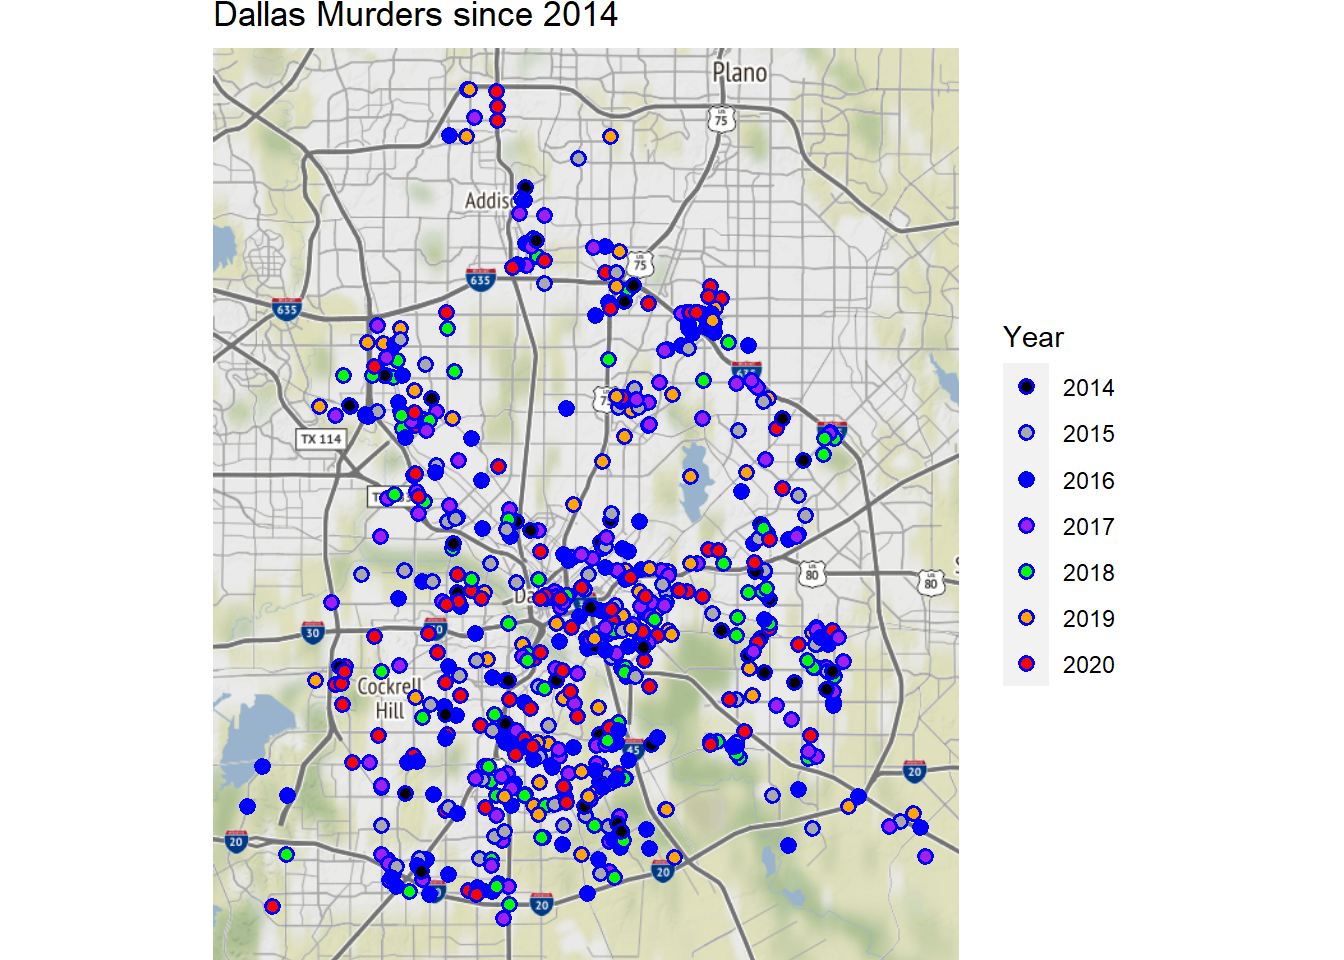
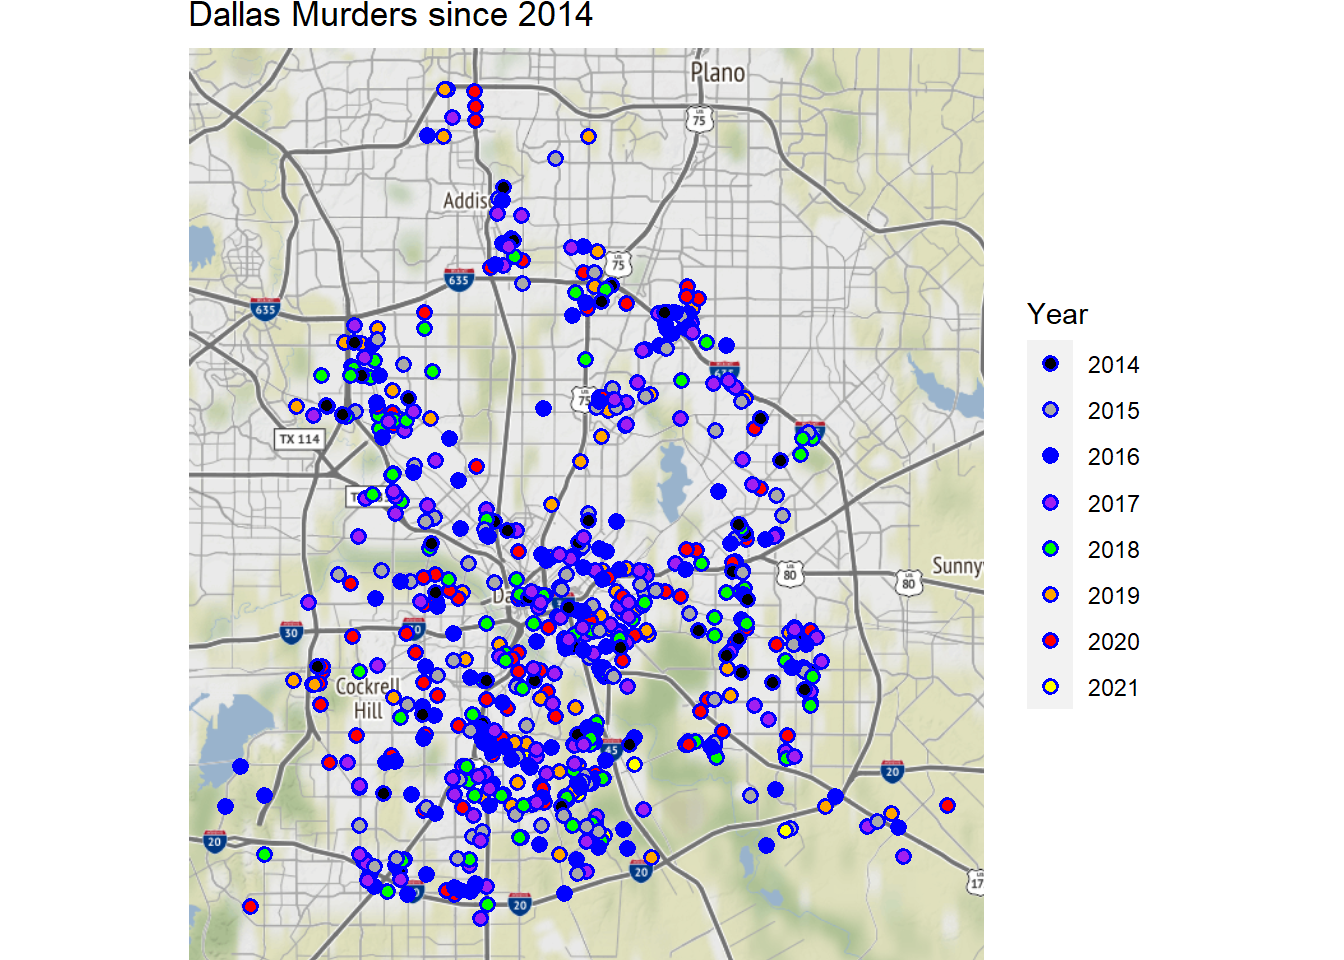
Fixes

diff --git a/content/post/2020-12-22-mapping-murders-in-dallas/index.html b/content/post/2020-12-22-mapping-murders-in-dallas/index.html
@@ -8,12 +8,11 @@ categories:
 tags: []
 ---
 
-<link href="index_files/anchor-sections/anchor-sections.css" rel="stylesheet" />
-<script src="index_files/anchor-sections/anchor-sections.js"></script>
 
 
-<p>To explore the Dallas Murder data more yourself, check out <a href="https://sean-conroy.shinyapps.io/shinymurdermap/">my Shiny app here</a>.</p>
-<p>The code behind this blog post is <a href="https://github.com/meystingray/meystingray.github.io/blob/master/content/post/2020-12-02-murder-rates-in-dallas/index.Rmd">on GitHub here</a>.</p>
+<p>To explore the Dallas Murder data more yourself, check out <a href="https://sean-conroy.shinyapps.io/shinymurdermap/" target="_blank">my Shiny app here</a>.</p>
+<p>The code behind this blog post is <a href="https://github.com/meystingray/meystingray.github.io/blob/master/content/post/2020-12-02-murder-rates-in-dallas/index.Rmd" target="_blank">on GitHub here</a>.</p>
+<p>Note, 1-11-2020: Data has been refreshed to include all of 2020.</p>
 <p>All Dallas Murders since 2014, Color by Year</p>
 <p><img src="index_files/figure-html/DallasAll-1.png" width="672" /></p>
 <p>Let’s take a look at the Dallas murders on a map for each year.</p>
